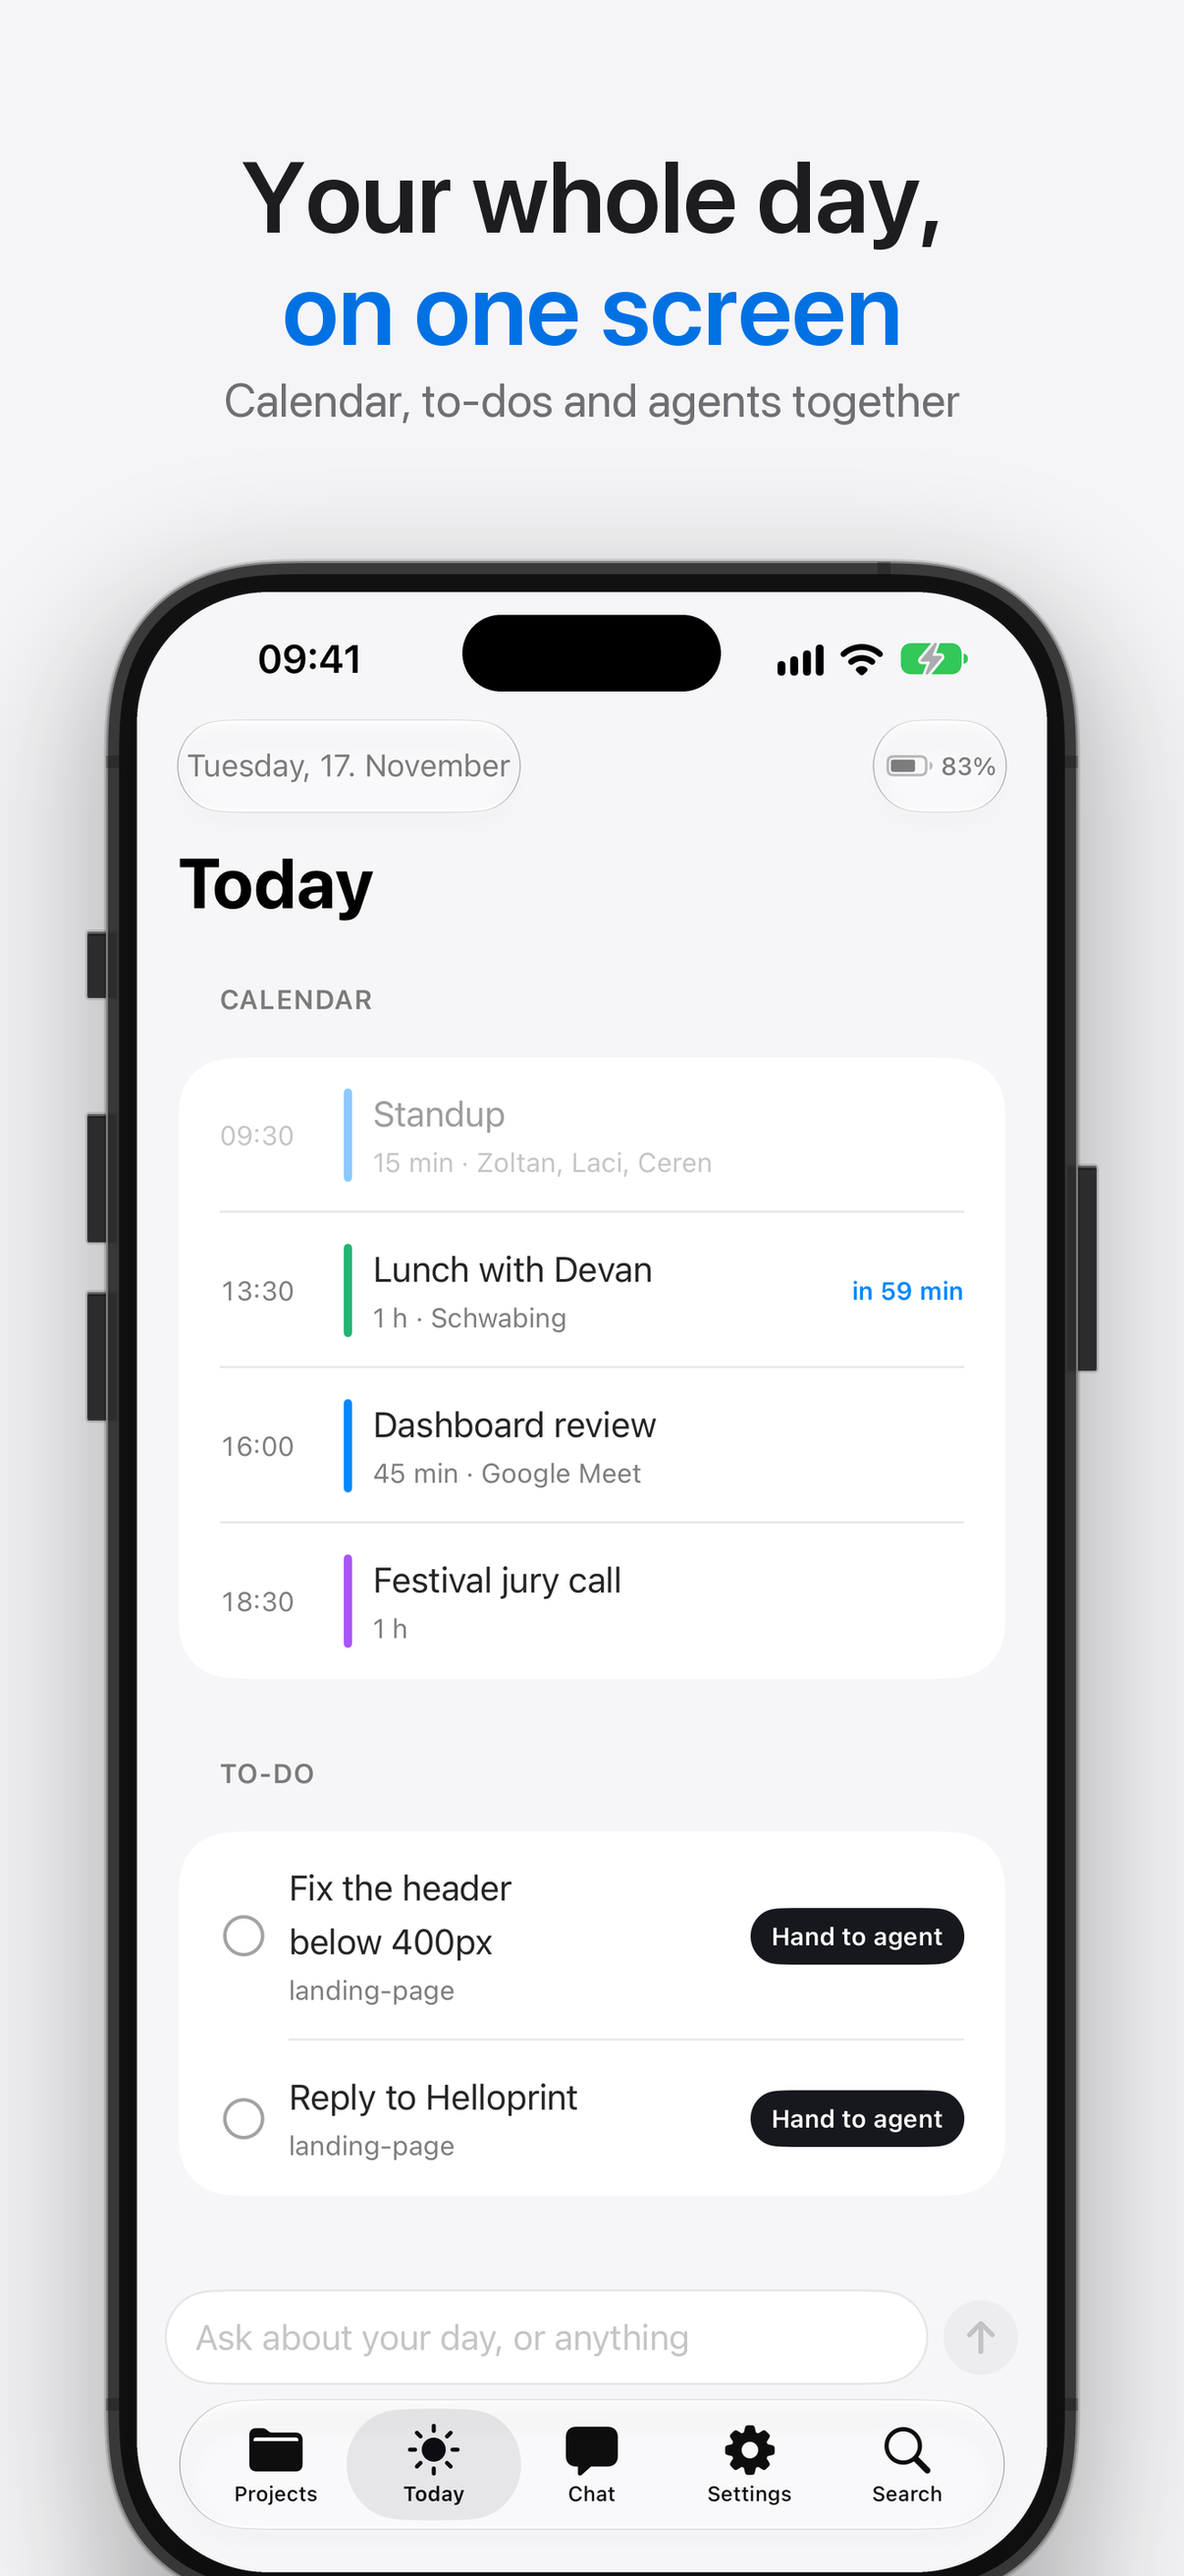
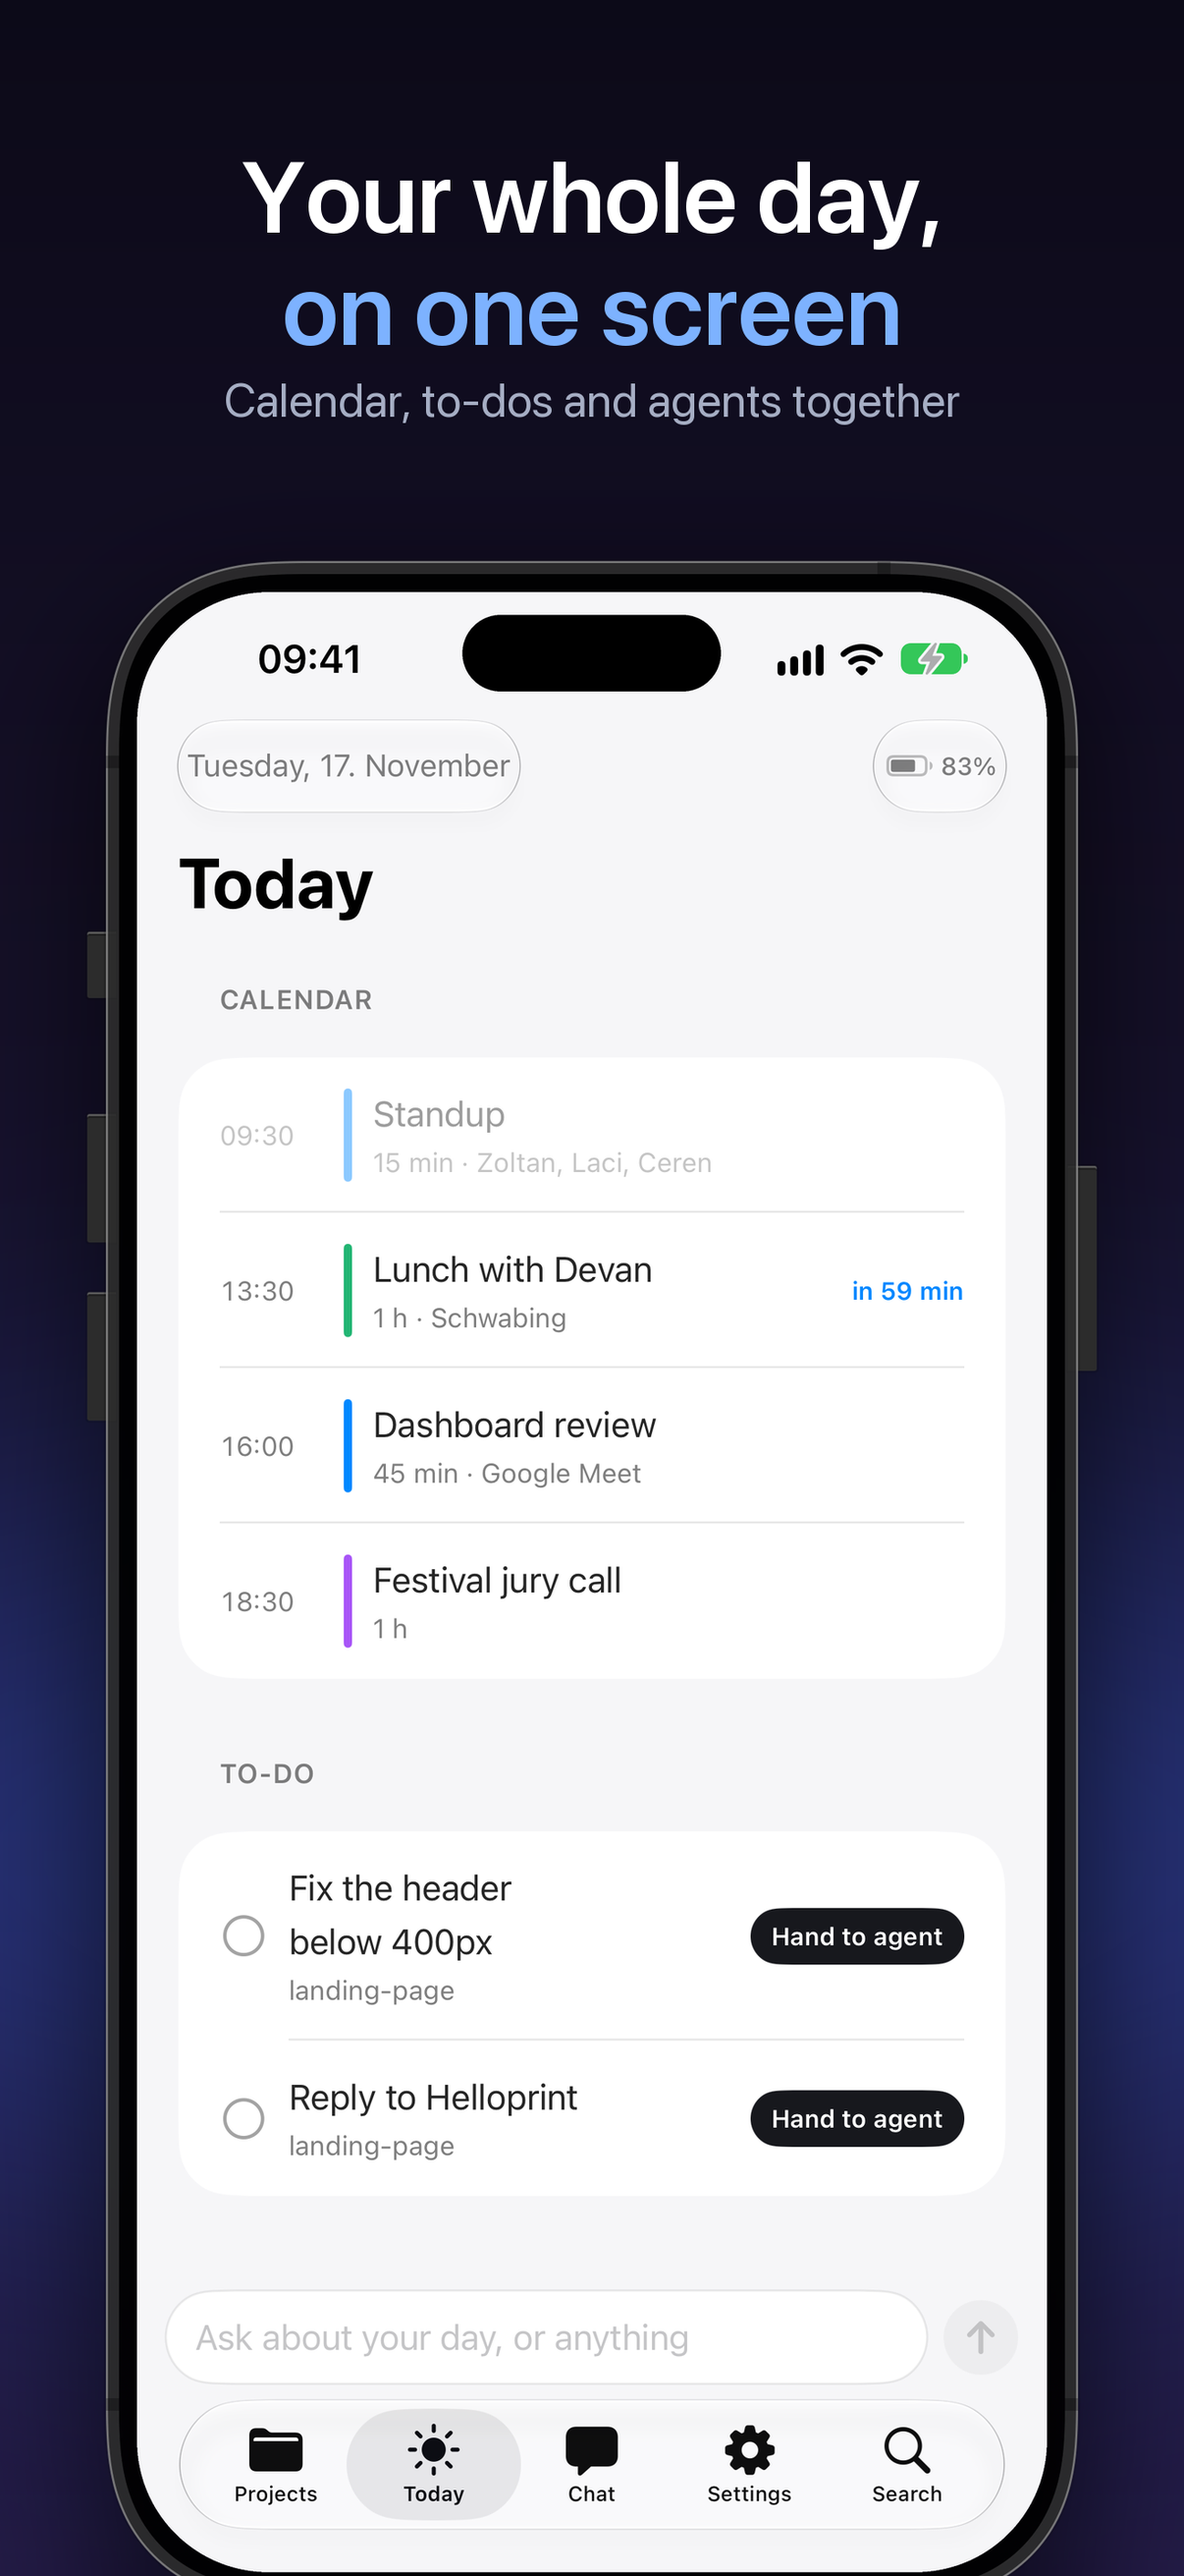
App Store artwork: dark gradient bands, a tablet bezel for iPad, stale files removed

diff --git a/docs/appstore/store_style.py b/docs/appstore/store_style.py
@@ -7,11 +7,12 @@ from PIL import Image, ImageDraw, ImageFilter, ImageFont
 FRAME = Path(__file__).parent / "frame"
 
 SF = "/System/Library/Fonts/SFNS.ttf"
-INK = (29, 29, 31)         # --ink
-ACCENT = (0, 113, 227)     # --blue
-MUTED = (110, 110, 115)    # --ink-2
-GLOW = (0, 113, 227)
-BANDS = ((255, 255, 255), (245, 245, 247))  # white and the landing page's .alt
+INK = (255, 255, 255)      # headlines: white on the dark band
+ACCENT = (125, 178, 255)   # the one blue, lifted for dark
+MUTED = (166, 174, 196)    # subtitles
+GLOW = (60, 110, 255)
+# Deep night to indigo, top to bottom; alternate bands lean a little more violet.
+BANDS = (((9, 11, 20), (24, 30, 62)), ((12, 10, 24), (38, 26, 70)))
 
 
 def font(size, weight="Bold"):
@@ -21,19 +22,31 @@ def font(size, weight="Bold"):
 
 
 def background(w, h, glow_at=None, glow_r=None, glow=None, band=0):
-    """A flat landing-page band: white, or #f5f5f7 for the alternate. No glow: Apple's pages have none."""
-    return Image.new("RGBA", (w, h), BANDS[band % 2] + (255,))
+    """A dark vertical gradient with a soft glow behind where the device sits."""
+    top, bottom = BANDS[band % 2]
+    col = Image.new("RGBA", (1, h))
+    for y in range(h):
+        t = y / max(1, h - 1)
+        col.putpixel((0, y), tuple(round(top[i] + (bottom[i] - top[i]) * t) for i in range(3)) + (255,))
+    img = col.resize((w, h))
+    cx, cy = glow_at or (w // 2, round(h * 0.72))
+    r = glow_r or round(w * 0.55)
+    halo = Image.new("RGBA", (w, h), (0, 0, 0, 0))
+    ImageDraw.Draw(halo).ellipse([cx - r, cy - r, cx + r, cy + r], fill=(GLOW if glow is None else glow) + (120,))
+    img.alpha_composite(halo.filter(ImageFilter.GaussianBlur(r * 0.45)))
+    return img
 
 
-def framed_phone(path, width, bezel=None):
-    """The screen with a dark bezel and a thin lit edge, like the device."""
+def framed_phone(path, width, bezel=None, tablet=False):
+    """The screen with a dark bezel and a thin lit edge, like the device. A tablet has a
+    wider bezel and tighter corners than a phone."""
     shot = Image.open(path).convert("RGB")
-    bezel = bezel or max(10, round(width * 0.02))
+    bezel = bezel or max(10, round(width * (0.022 if tablet else 0.02)))
     inner_w = width - 2 * bezel
     inner_h = round(shot.height * inner_w / shot.width)
     shot = shot.resize((inner_w, inner_h), Image.LANCZOS)
     w, h = width, inner_h + 2 * bezel
-    outer_r = round(width * 0.115)
+    outer_r = round(width * (0.05 if tablet else 0.115))
     inner_r = outer_r - bezel
     card = Image.new("RGBA", (w, h), (0, 0, 0, 0))
     d = ImageDraw.Draw(card)
@@ -90,15 +103,15 @@ def real_iphone(path, width):
     return card.resize((width, h), Image.LANCZOS), round(80 * 3 * width / W)
 
 
-def paste_phone(canvas, path, x, y, width, shadow=True, halo=None, real=False):
-    card, r = real_iphone(path, width) if real else framed_phone(path, width)
+def paste_phone(canvas, path, x, y, width, shadow=True, halo=None, real=False, tablet=False):
+    card, r = real_iphone(path, width) if real else framed_phone(path, width, tablet=tablet)
     if halo:
         hl = Image.new("RGBA", canvas.size, (0, 0, 0, 0))
         ImageDraw.Draw(hl).rounded_rectangle([x - 14, y - 14, x + card.width + 14, y + card.height + 14], r + 14, fill=halo + (170,))
         canvas.alpha_composite(hl.filter(ImageFilter.GaussianBlur(46)))
     if shadow:
         sh = Image.new("RGBA", canvas.size, (0, 0, 0, 0))
-        ImageDraw.Draw(sh).rounded_rectangle([x, y + 40, x + card.width, y + card.height + 40], r, fill=(0, 0, 0, 70))
+        ImageDraw.Draw(sh).rounded_rectangle([x, y + 40, x + card.width, y + card.height + 40], r, fill=(0, 0, 0, 140))
         canvas.alpha_composite(sh.filter(ImageFilter.GaussianBlur(70)))
     canvas.alpha_composite(card, (x, y))
     return card

diff --git a/docs/appstore/make-screenshots.py b/docs/appstore/make-screenshots.py
@@ -26,7 +26,7 @@ def compose(raw, title, sub, canvas, phone_w, name, title_size, top_pad, phone_t
     img = background(w, h, band=band)
     headline(img, title, sub, top_pad, title_size)
     # The phone runs off the bottom edge: bigger on screen, and it reads as a real device in hand.
-    paste_phone(img, RAW / raw, (w - phone_w) // 2, phone_top, phone_w, real=raw.startswith("iphone/"))
+    paste_phone(img, RAW / raw, (w - phone_w) // 2, phone_top, phone_w, real=raw.startswith("iphone/"), tablet=raw.startswith("ipad/"))
     OUT.mkdir(parents=True, exist_ok=True)
     img.convert("RGB").save(OUT / name, optimize=True)
 
